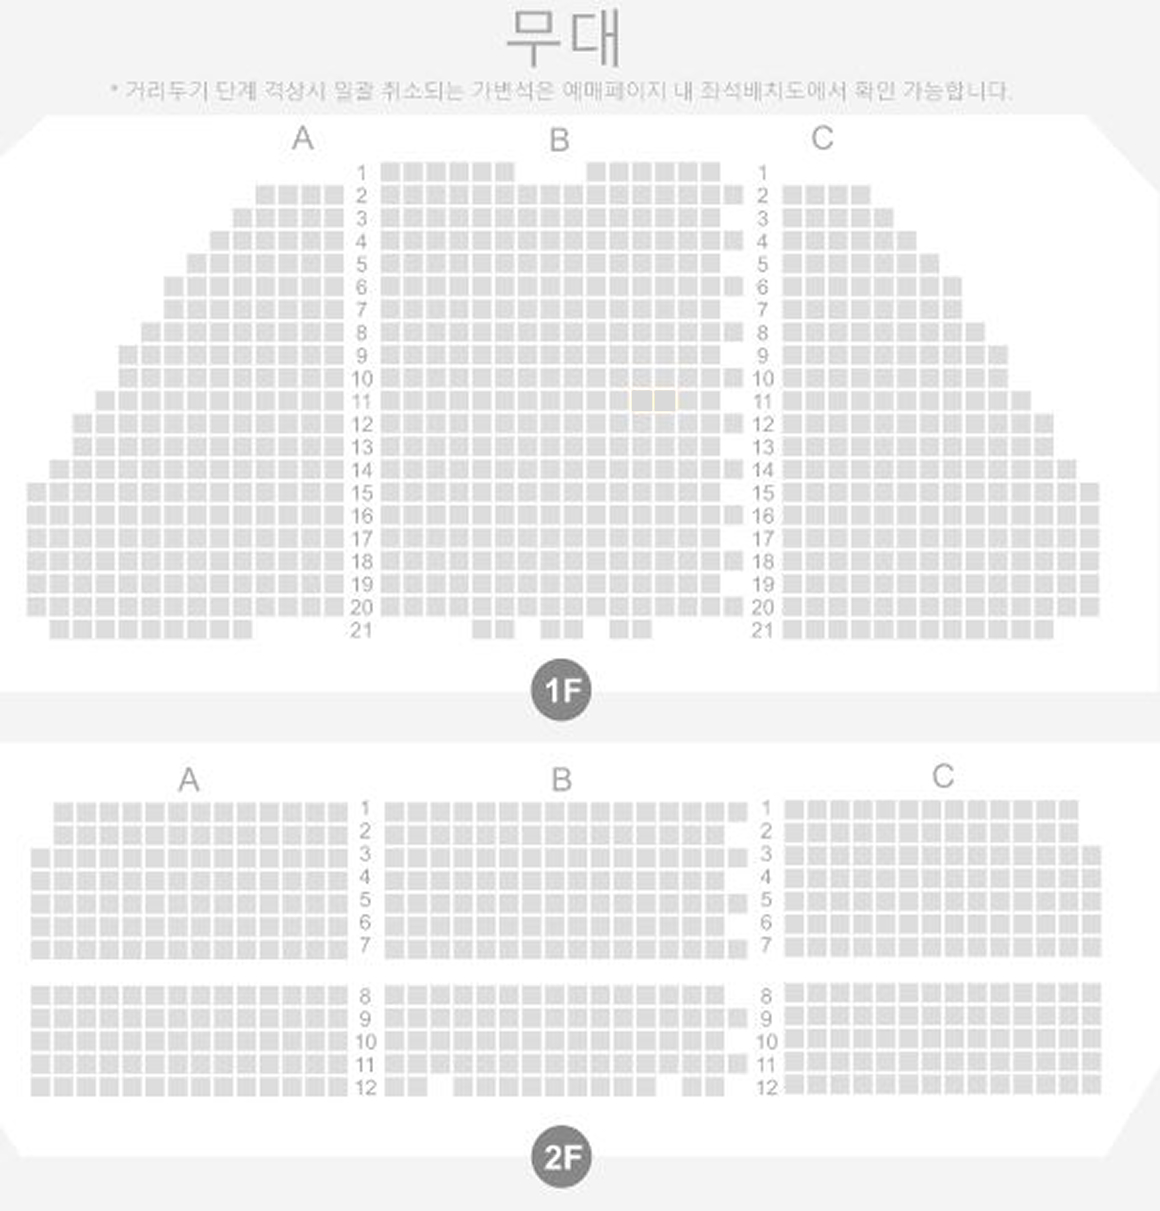
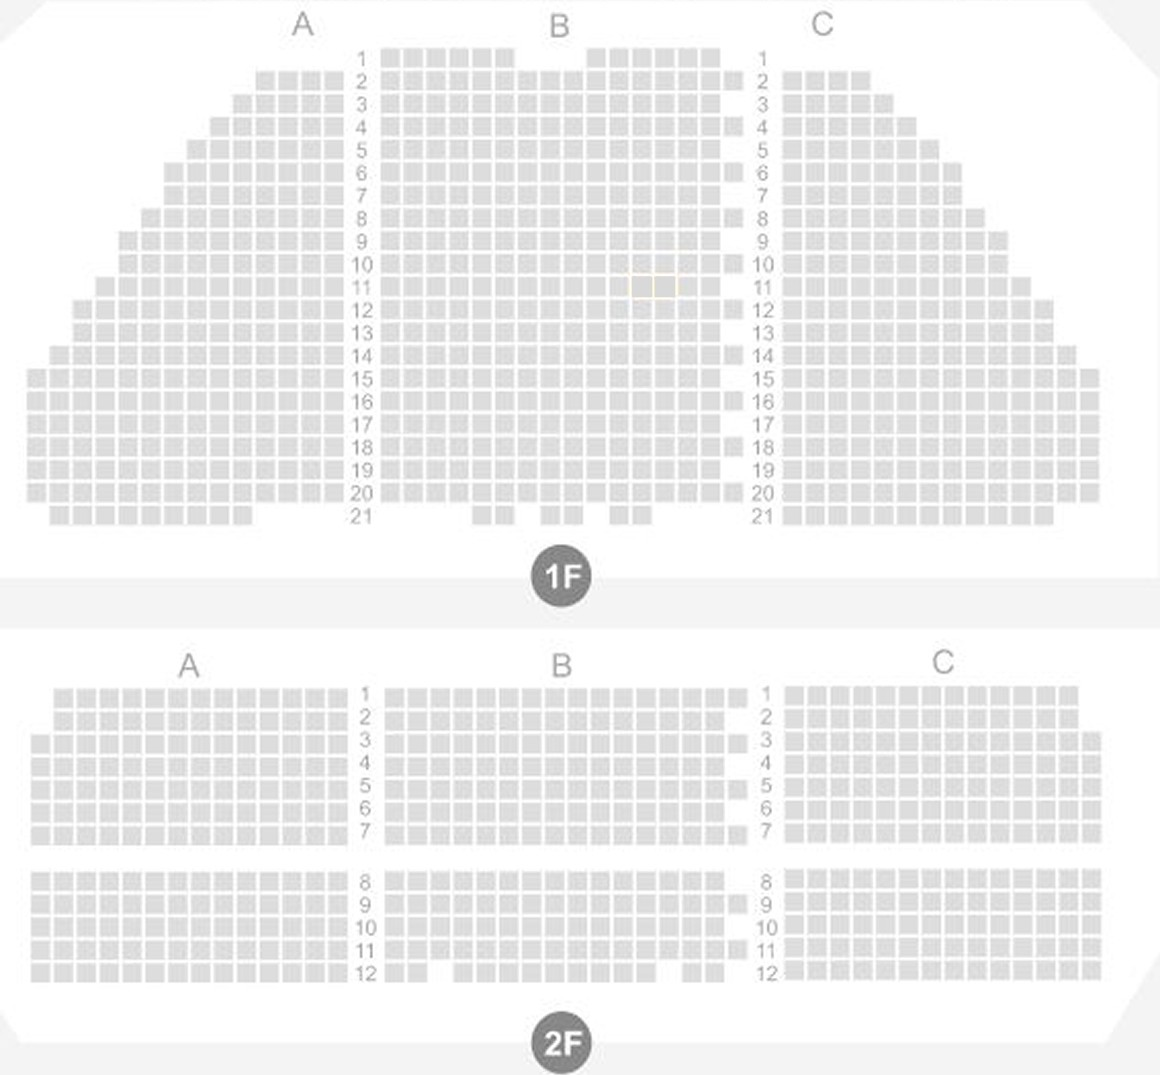
feat: KSPO DOME를 인스파이어 아레나로 수정

diff --git a/Frontend/src/pages/home/index.tsx b/Frontend/src/pages/home/index.tsx
@@ -38,7 +38,7 @@ export default function HomePage() {
       title: "18시 모집합니다~~!! 18시 시작",
       variant: "blue" as const,
       size: "large" as const,
-      venueName: "KSPO DOME",
+      venueName: "인스파이어 아레나",
       participants: { current: 15, capacity: 20 },
       startTime: "13:50",
       imageSrc: Thumbnail03,
@@ -65,7 +65,7 @@ export default function HomePage() {
       title: "18시 모집합니다~~!! 18시 시작",
       variant: "orange" as const,
       size: "large" as const,
-      venueName: "KSPO DOME",
+      venueName: "인스파이어 아레나",
       participants: { current: 15, capacity: 20 },
       startTime: "14:50",
       imageSrc: Thumbnail06,

diff --git a/Frontend/src/pages/rooms/index.tsx b/Frontend/src/pages/rooms/index.tsx
@@ -43,7 +43,7 @@ export default function RoomsPage() {
         title: "뮤지컬 킹키부츠 예매",
         variant: "blue" as const,
         size: "large" as const,
-        venueName: "KSPO DOME",
+        venueName: "인스파이어 아레나",
         participants: { current: 15, capacity: 20 },
         startTime: "13:50",
         ongoing: true,
@@ -73,7 +73,7 @@ export default function RoomsPage() {
         title: "B-Dragon 컴백콘서트",
         variant: "orange" as const,
         size: "large" as const,
-        venueName: "KSPO DOME",
+        venueName: "인스파이어 아레나",
         participants: { current: 15, capacity: 20 },
         startTime: "14:50",
         ongoing: false,

diff --git a/Frontend/src/pages/rooms/_components/LeftPane.tsx b/Frontend/src/pages/rooms/_components/LeftPane.tsx
@@ -90,8 +90,8 @@ export default function LeftPane({
                 ? "/performance-halls/charlotte-theater.jpg"
                 : size === "중형" || /올림픽홀/.test(venue)
                   ? "/performance-halls/olympic-hall.jpg"
-                  : size === "대형" || /KSPO/.test(venue)
-                    ? "/performance-halls/kspo-dome.jpg"
+                  : size === "대형" || /인스파이어아레나/.test(venue)
+                    ? "/performance-halls/inspire-arena.jpg"
                     : null;
             const src = layoutUrl || (isAIMode ? null : defaultSrc);
             return src ? (

diff --git a/Frontend/src/pages/home/_components/RoomCard.tsx b/Frontend/src/pages/home/_components/RoomCard.tsx
@@ -66,7 +66,7 @@ export default function RoomCard({
   const imageBySize: Record<NonNullable<typeof size>, string> = {
     small: "/performance-halls/charlotte-theater.jpg",
     medium: "/performance-halls/olympic-hall.jpg",
-    large: "/performance-halls/kspo-dome.jpg",
+    large: "/performance-halls/inspire-arena.jpg",
   };
   const resolvedImageSrc =
     imageSrc ?? (size ? imageBySize[size] : "/temp-seats.jpg");

diff --git a/Frontend/src/pages/rooms/_components/CreateRoomModal.tsx b/Frontend/src/pages/rooms/_components/CreateRoomModal.tsx
@@ -50,7 +50,7 @@ export default function CreateRoomModal({
     () => ({
       소형: ["샤롯데씨어터"],
       중형: ["올림픽공원 올림픽홀"],
-      대형: ["KSPO DOME"],
+      대형: ["인스파이어 아레나"],
     }),
     []
   );
